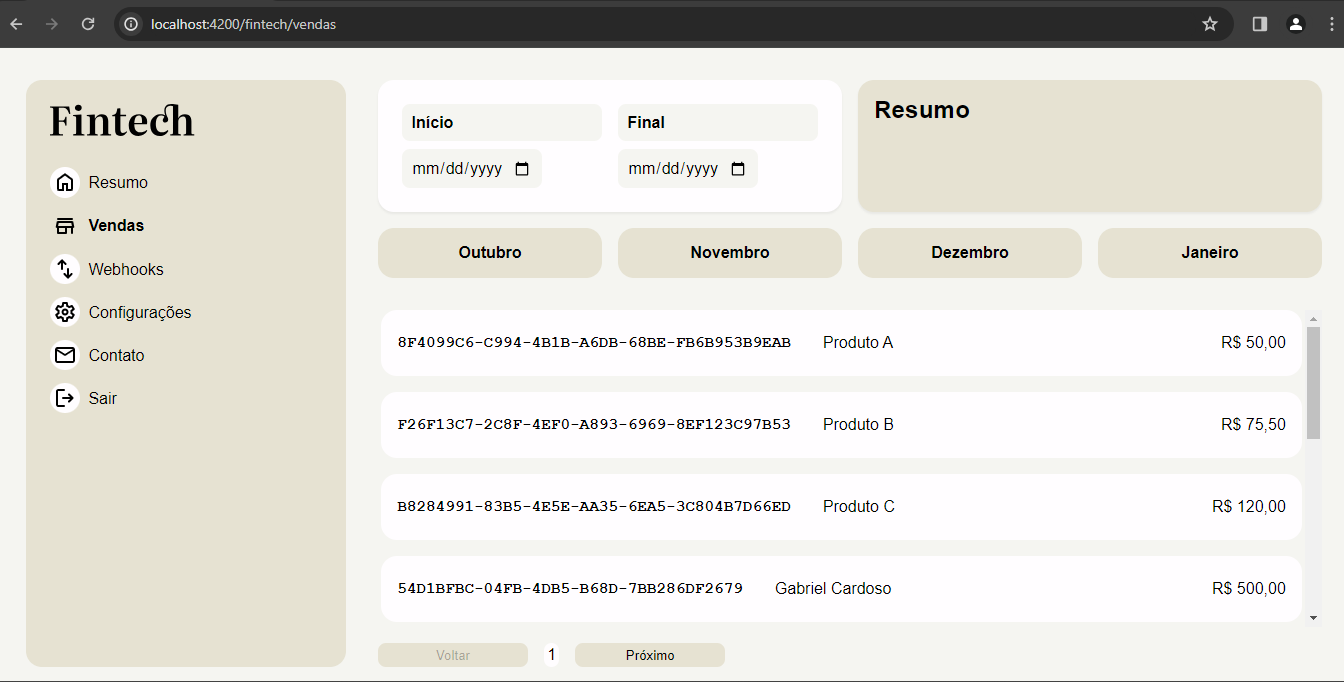
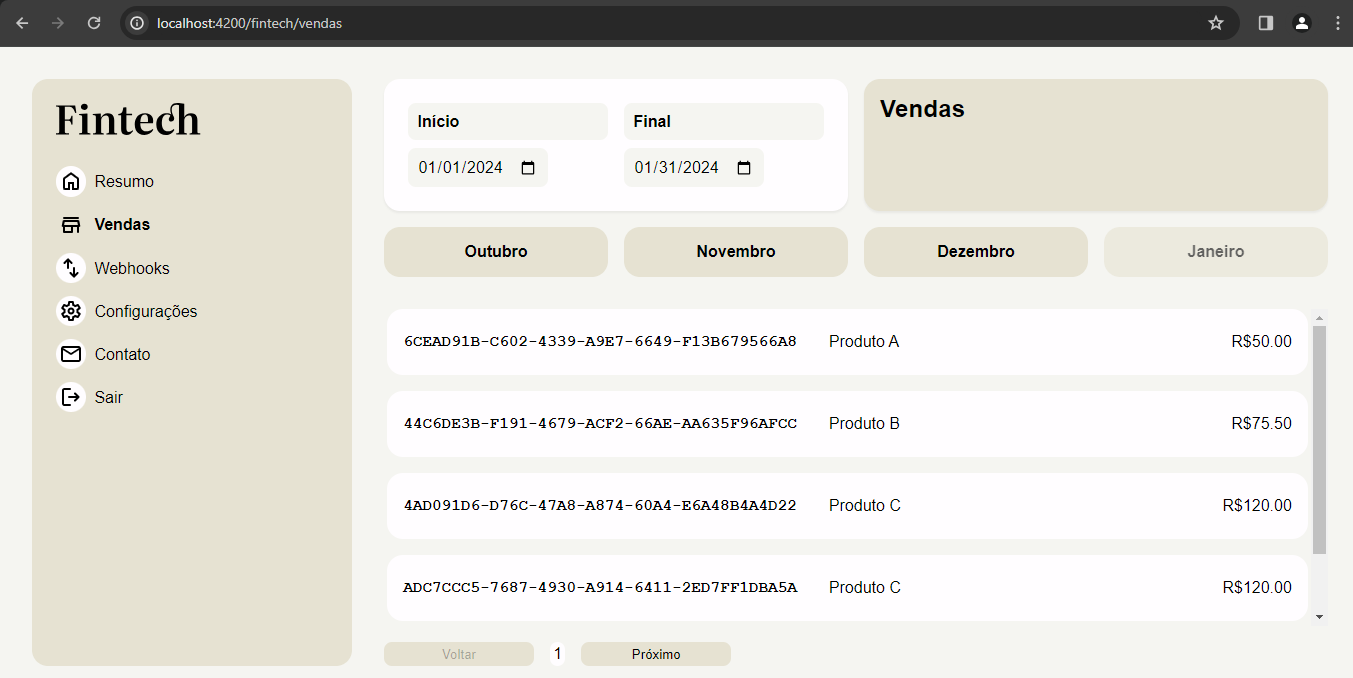
Implementando lógica pagina resumo

diff --git a/src/app/modules/fintech/components/months/months.component.ts b/src/app/modules/fintech/components/months/months.component.ts
@@ -1,4 +1,4 @@
-import { ChangeDetectionStrategy, Component, EventEmitter, OnInit, Output, signal } from '@angular/core';
+import { ChangeDetectionStrategy, Component, EventEmitter, OnInit, Output, Signal, effect, signal } from '@angular/core';
 
 const months = [
   'Janeiro',
@@ -27,6 +27,8 @@ export class MonthsComponent implements OnInit {
 
   public selectMonths = signal<{ month: string, key: number }[]>([]);
 
+  public activatedMonth = signal(new Date().getMonth());
+
   @Output() public selectedMonth = new EventEmitter<number>();
 
   public ngOnInit(): void {
@@ -48,6 +50,7 @@ export class MonthsComponent implements OnInit {
   }
 
   public onSelectedMonth(month: number) {
+    this.activatedMonth.set(month);
     this.selectedMonth.emit(month);
   }
 }

diff --git a/src/app/modules/fintech/components/months/months.component.html b/src/app/modules/fintech/components/months/months.component.html
@@ -1,5 +1,7 @@
 <ul class="months">
   @for (month of selectMonths(); track month) {
-    <li (click)="onSelectedMonth(month.key)">{{ month.month }}</li>
+    <li (click)="onSelectedMonth(month.key)" [ngClass]="{ active: activatedMonth() === month.key }">{{ month.month }}</li>
   }
 </ul>
+
+

diff --git a/src/app/modules/fintech/components/months/months.component.scss b/src/app/modules/fintech/components/months/months.component.scss
@@ -13,9 +13,10 @@
       cursor: pointer;
       transition: all 0.1s ease-in;
 
-      &:hover {
+      &:hover, &.active {
         opacity: 0.6;
       }
+
     }
   }
 }

diff --git a/src/app/modules/fintech/services/data.service.ts b/src/app/modules/fintech/services/data.service.ts
@@ -8,4 +8,5 @@ export class DataService {
   public inicio = signal<string>('');
   public fim =  signal<string>('');
 
+
 }

diff --git a/README.md b/README.md
@@ -6,6 +6,8 @@
 
 ![Alt text](image-1.png)
 
+![Alt text](image-2.png)
+
 ## Tecnologias usadas
 
 #### Angular
